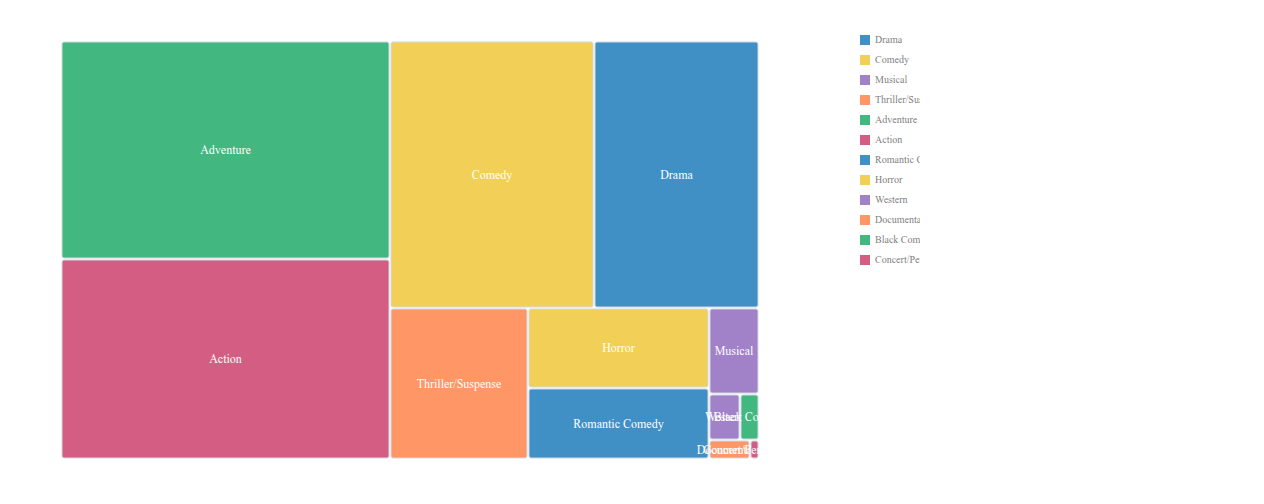
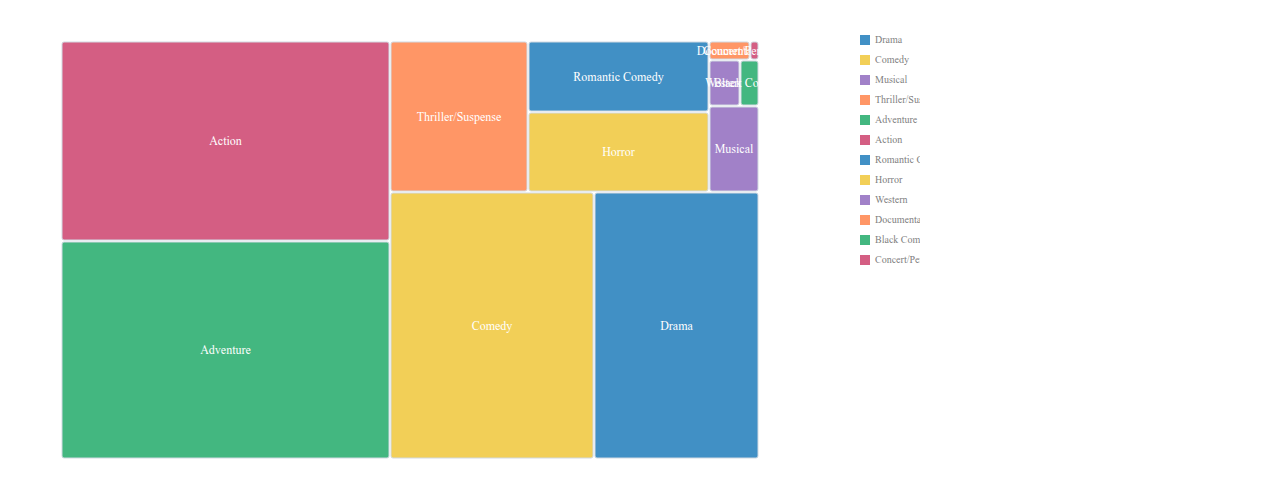
Accept 3 visual diff(s)

diff --git a/dom/low-level-syntax/treemap--default.html b/dom/low-level-syntax/treemap--default.html
@@ -1,15 +1,15 @@
-<svg height="500" width="900" xmlns="http://www.w3.org/2000/svg"><g transform="scale(1, -1) translate(40, -460)"><g transform="translate(0, 0)"><rect fill="#4190c5" height="265" opacity="1" rx="2" ry="2" stroke="#D1D9E2" stroke-width="1" transform="scale(1, -1)" width="163" x="535" y="-418"></rect><text dominant-baseline="central" fill="white" font-size="12" text-anchor="middle" transform="scale(1, -1)" x="616.5" y="-285.5">Drama
-</text><rect fill="#f2cf57" height="265" opacity="1" rx="2" ry="2" stroke="#D1D9E2" stroke-width="1" transform="scale(1, -1)" width="202" x="331" y="-418"></rect><text dominant-baseline="central" fill="white" font-size="12" text-anchor="middle" transform="scale(1, -1)" x="432" y="-285.5">Comedy
-</text><rect fill="#a181c8" height="84" opacity="1" rx="2" ry="2" stroke="#D1D9E2" stroke-width="1" transform="scale(1, -1)" width="48" x="650" y="-151"></rect><text dominant-baseline="central" fill="white" font-size="12" text-anchor="middle" transform="scale(1, -1)" x="674" y="-109">Musical
-</text><rect fill="#ff9666" height="149" opacity="1" rx="2" ry="2" stroke="#D1D9E2" stroke-width="1" transform="scale(1, -1)" width="136" x="331" y="-151"></rect><text dominant-baseline="central" fill="white" font-size="12" text-anchor="middle" transform="scale(1, -1)" x="399" y="-76.5">Thriller/Suspense
-</text><rect fill="#43b780" height="216" opacity="1" rx="2" ry="2" stroke="#D1D9E2" stroke-width="1" transform="scale(1, -1)" width="327" x="2" y="-418"></rect><text dominant-baseline="central" fill="white" font-size="12" text-anchor="middle" transform="scale(1, -1)" x="165.5" y="-310">Adventure
-</text><rect fill="#d45e83" height="198" opacity="1" rx="2" ry="2" stroke="#D1D9E2" stroke-width="1" transform="scale(1, -1)" width="327" x="2" y="-200"></rect><text dominant-baseline="central" fill="white" font-size="12" text-anchor="middle" transform="scale(1, -1)" x="165.5" y="-101">Action
-</text><rect fill="#4190c5" height="69" opacity="1" rx="2" ry="2" stroke="#D1D9E2" stroke-width="1" transform="scale(1, -1)" width="179" x="469" y="-71"></rect><text dominant-baseline="central" fill="white" font-size="12" text-anchor="middle" transform="scale(1, -1)" x="558.5" y="-36.5">Romantic Comedy
-</text><rect fill="#f2cf57" height="78" opacity="1" rx="2" ry="2" stroke="#D1D9E2" stroke-width="1" transform="scale(1, -1)" width="179" x="469" y="-151"></rect><text dominant-baseline="central" fill="white" font-size="12" text-anchor="middle" transform="scale(1, -1)" x="558.5" y="-112">Horror
-</text><rect fill="#a181c8" height="44" opacity="1" rx="2" ry="2" stroke="#D1D9E2" stroke-width="1" transform="scale(1, -1)" width="29" x="650" y="-65"></rect><text dominant-baseline="central" fill="white" font-size="12" text-anchor="middle" transform="scale(1, -1)" x="664.5" y="-43">Western
-</text><rect fill="#ff9666" height="17" opacity="1" rx="2" ry="2" stroke="#D1D9E2" stroke-width="1" transform="scale(1, -1)" width="39" x="650" y="-19"></rect><text dominant-baseline="central" fill="white" font-size="12" text-anchor="middle" transform="scale(1, -1)" x="669.5" y="-10.5">Documentary
-</text><rect fill="#43b780" height="44" opacity="1" rx="2" ry="2" stroke="#D1D9E2" stroke-width="1" transform="scale(1, -1)" width="17" x="681" y="-65"></rect><text dominant-baseline="central" fill="white" font-size="12" text-anchor="middle" transform="scale(1, -1)" x="689.5" y="-43">Black Comedy
-</text><rect fill="#d45e83" height="17" opacity="1" rx="2" ry="2" stroke="#D1D9E2" stroke-width="1" transform="scale(1, -1)" width="7" x="691" y="-19"></rect><text dominant-baseline="central" fill="white" font-size="12" text-anchor="middle" transform="scale(1, -1)" x="694.5" y="-10.5">Concert/Performance
+<svg height="500" width="900" xmlns="http://www.w3.org/2000/svg"><g transform="scale(1, -1) translate(40, -460)"><g transform="translate(0, 0)"><rect fill="#4190c5" height="265" opacity="1" rx="2" ry="2" stroke="#D1D9E2" stroke-width="1" transform="scale(1, -1)" width="163" x="535" y="-267"></rect><text dominant-baseline="central" fill="white" font-size="12" text-anchor="middle" transform="scale(1, -1)" x="616.5" y="-134.5">Drama
+</text><rect fill="#f2cf57" height="265" opacity="1" rx="2" ry="2" stroke="#D1D9E2" stroke-width="1" transform="scale(1, -1)" width="202" x="331" y="-267"></rect><text dominant-baseline="central" fill="white" font-size="12" text-anchor="middle" transform="scale(1, -1)" x="432" y="-134.5">Comedy
+</text><rect fill="#a181c8" height="84" opacity="1" rx="2" ry="2" stroke="#D1D9E2" stroke-width="1" transform="scale(1, -1)" width="48" x="650" y="-353"></rect><text dominant-baseline="central" fill="white" font-size="12" text-anchor="middle" transform="scale(1, -1)" x="674" y="-311">Musical
+</text><rect fill="#ff9666" height="149" opacity="1" rx="2" ry="2" stroke="#D1D9E2" stroke-width="1" transform="scale(1, -1)" width="136" x="331" y="-418"></rect><text dominant-baseline="central" fill="white" font-size="12" text-anchor="middle" transform="scale(1, -1)" x="399" y="-343.5">Thriller/Suspense
+</text><rect fill="#43b780" height="216" opacity="1" rx="2" ry="2" stroke="#D1D9E2" stroke-width="1" transform="scale(1, -1)" width="327" x="2" y="-218"></rect><text dominant-baseline="central" fill="white" font-size="12" text-anchor="middle" transform="scale(1, -1)" x="165.5" y="-110">Adventure
+</text><rect fill="#d45e83" height="198" opacity="1" rx="2" ry="2" stroke="#D1D9E2" stroke-width="1" transform="scale(1, -1)" width="327" x="2" y="-418"></rect><text dominant-baseline="central" fill="white" font-size="12" text-anchor="middle" transform="scale(1, -1)" x="165.5" y="-319">Action
+</text><rect fill="#4190c5" height="69" opacity="1" rx="2" ry="2" stroke="#D1D9E2" stroke-width="1" transform="scale(1, -1)" width="179" x="469" y="-418"></rect><text dominant-baseline="central" fill="white" font-size="12" text-anchor="middle" transform="scale(1, -1)" x="558.5" y="-383.5">Romantic Comedy
+</text><rect fill="#f2cf57" height="78" opacity="1" rx="2" ry="2" stroke="#D1D9E2" stroke-width="1" transform="scale(1, -1)" width="179" x="469" y="-347"></rect><text dominant-baseline="central" fill="white" font-size="12" text-anchor="middle" transform="scale(1, -1)" x="558.5" y="-308">Horror
+</text><rect fill="#a181c8" height="44" opacity="1" rx="2" ry="2" stroke="#D1D9E2" stroke-width="1" transform="scale(1, -1)" width="29" x="650" y="-399"></rect><text dominant-baseline="central" fill="white" font-size="12" text-anchor="middle" transform="scale(1, -1)" x="664.5" y="-377">Western
+</text><rect fill="#ff9666" height="17" opacity="1" rx="2" ry="2" stroke="#D1D9E2" stroke-width="1" transform="scale(1, -1)" width="39" x="650" y="-418"></rect><text dominant-baseline="central" fill="white" font-size="12" text-anchor="middle" transform="scale(1, -1)" x="669.5" y="-409.5">Documentary
+</text><rect fill="#43b780" height="44" opacity="1" rx="2" ry="2" stroke="#D1D9E2" stroke-width="1" transform="scale(1, -1)" width="17" x="681" y="-399"></rect><text dominant-baseline="central" fill="white" font-size="12" text-anchor="middle" transform="scale(1, -1)" x="689.5" y="-377">Black Comedy
+</text><rect fill="#d45e83" height="17" opacity="1" rx="2" ry="2" stroke="#D1D9E2" stroke-width="1" transform="scale(1, -1)" width="7" x="691" y="-418"></rect><text dominant-baseline="central" fill="white" font-size="12" text-anchor="middle" transform="scale(1, -1)" x="694.5" y="-409.5">Concert/Performance
 </text></g><g transform="translate(820, 420)"><rect fill="#4190c5" height="10" width="10" x="-20" y="-5"></rect><text dominant-baseline="middle" fill="gray" font-size="10" text-anchor="start" transform="scale(1, -1)" x="-5" y="0">Drama
 </text></g><g transform="translate(820, 400)"><rect fill="#f2cf57" height="10" width="10" x="-20" y="-5"></rect><text dominant-baseline="middle" fill="gray" font-size="10" text-anchor="start" transform="scale(1, -1)" x="-5" y="0">Comedy
 </text></g><g transform="translate(820, 380)"><rect fill="#a181c8" height="10" width="10" x="-20" y="-5"></rect><text dominant-baseline="middle" fill="gray" font-size="10" text-anchor="start" transform="scale(1, -1)" x="-5" y="0">Musical

diff --git a/dom/low-level-syntax/axes--continuous-yaxis.html b/dom/low-level-syntax/axes--continuous-yaxis.html
@@ -1,0 +1,9 @@
+<svg height="480" width="480" xmlns="http://www.w3.org/2000/svg"><g transform="scale(1, -1) translate(40, -440)"><g transform="translate(0, 0) scale(1, 1)"><g transform="translate(80.6724, 0)"><rect fill="#457b9d" height="100" opacity="1" rx="0" ry="0" stroke="#457b9d" stroke-width="0" transform="scale(1, -1)" width="40" x="0" y="-100"></rect><rect fill="#457b9d" height="280" opacity="1" rx="0" ry="0" stroke="#457b9d" stroke-width="0" transform="scale(1, -1)" width="40" x="48" y="-280"></rect><rect fill="#457b9d" height="150" opacity="1" rx="0" ry="0" stroke="#457b9d" stroke-width="0" transform="scale(1, -1)" width="40" x="96" y="-150"></rect></g><rect fill="#999" height="300" opacity="1" rx="0" ry="0" stroke="#999" stroke-width="0" transform="scale(1, -1)" width="1" x="73.6724" y="-300"></rect><g transform="translate(58.6738, -200)"><text dominant-baseline="auto" fill="#666" font-family="system-ui, sans-serif" font-size="11" stroke-width="0" text-anchor="start" transform="scale(1, -1)" x="0" y="-196.5">0
+</text><rect fill="#999" height="1" opacity="1" rx="0" ry="0" stroke="#999" stroke-width="0" transform="scale(1, -1)" width="5" x="9.9985" y="-200.5"></rect></g><g transform="translate(51.6753, -150)"><text dominant-baseline="auto" fill="#666" font-family="system-ui, sans-serif" font-size="11" stroke-width="0" text-anchor="start" transform="scale(1, -1)" x="0" y="-196.5">50
+</text><rect fill="#999" height="1" opacity="1" rx="0" ry="0" stroke="#999" stroke-width="0" transform="scale(1, -1)" width="5" x="16.9971" y="-200.5"></rect></g><g transform="translate(44.6768, -100)"><text dominant-baseline="auto" fill="#666" font-family="system-ui, sans-serif" font-size="11" stroke-width="0" text-anchor="start" transform="scale(1, -1)" x="0" y="-196.5">100
+</text><rect fill="#999" height="1" opacity="1" rx="0" ry="0" stroke="#999" stroke-width="0" transform="scale(1, -1)" width="5" x="23.9956" y="-200.5"></rect></g><g transform="translate(44.6768, -50)"><text dominant-baseline="auto" fill="#666" font-family="system-ui, sans-serif" font-size="11" stroke-width="0" text-anchor="start" transform="scale(1, -1)" x="0" y="-196.5">150
+</text><rect fill="#999" height="1" opacity="1" rx="0" ry="0" stroke="#999" stroke-width="0" transform="scale(1, -1)" width="5" x="23.9956" y="-200.5"></rect></g><g transform="translate(44.6768, 0)"><text dominant-baseline="auto" fill="#666" font-family="system-ui, sans-serif" font-size="11" stroke-width="0" text-anchor="start" transform="scale(1, -1)" x="0" y="-196.5">200
+</text><rect fill="#999" height="1" opacity="1" rx="0" ry="0" stroke="#999" stroke-width="0" transform="scale(1, -1)" width="5" x="23.9956" y="-200.5"></rect></g><g transform="translate(44.6768, 50)"><text dominant-baseline="auto" fill="#666" font-family="system-ui, sans-serif" font-size="11" stroke-width="0" text-anchor="start" transform="scale(1, -1)" x="0" y="-196.5">250
+</text><rect fill="#999" height="1" opacity="1" rx="0" ry="0" stroke="#999" stroke-width="0" transform="scale(1, -1)" width="5" x="23.9956" y="-200.5"></rect></g><g transform="translate(44.6768, 100)"><text dominant-baseline="auto" fill="#666" font-family="system-ui, sans-serif" font-size="11" stroke-width="0" text-anchor="start" transform="scale(1, -1)" x="0" y="-196.5">300
+</text><rect fill="#999" height="1" opacity="1" rx="0" ry="0" stroke="#999" stroke-width="0" transform="scale(1, -1)" width="5" x="23.9956" y="-200.5"></rect></g><text dominant-baseline="auto" fill="#333" font-family="system-ui, sans-serif" font-size="13" stroke-width="0" text-anchor="start" transform="scale(1, -1)" x="0" y="-145.5">count
+</text></g></g></svg>

diff --git a/dom/low-level-syntax/axes--ordinal-xaxis.html b/dom/low-level-syntax/axes--ordinal-xaxis.html
@@ -1,0 +1,5 @@
+<svg height="480" width="480" xmlns="http://www.w3.org/2000/svg"><g transform="scale(1, -1) translate(40, -440)"><g transform="translate(21.7881, 60) scale(1, 1)"><g transform="translate(0, 0)"><rect fill="#457b9d" height="100" opacity="1" rx="0" ry="0" stroke="#457b9d" stroke-width="0" transform="scale(1, -1)" width="40" x="0" y="-100"></rect><rect fill="#457b9d" height="280" opacity="1" rx="0" ry="0" stroke="#457b9d" stroke-width="0" transform="scale(1, -1)" width="40" x="48" y="-280"></rect><rect fill="#457b9d" height="150" opacity="1" rx="0" ry="0" stroke="#457b9d" stroke-width="0" transform="scale(1, -1)" width="40" x="96" y="-150"></rect></g><g transform="translate(0, 0) scale(1, 1)"><g transform="translate(0, 0)"><text dominant-baseline="auto" fill="#666" font-family="system-ui, sans-serif" font-size="12" stroke-width="0" text-anchor="start" transform="scale(1, -1)" x="-1.7881" y="19">salmon
+</text></g><g transform="translate(0, 0)"><text dominant-baseline="auto" fill="#666" font-family="system-ui, sans-serif" font-size="12" stroke-width="0" text-anchor="start" transform="scale(1, -1)" x="54.2627" y="19">bass
+</text></g><g transform="translate(0, 0)"><text dominant-baseline="auto" fill="#666" font-family="system-ui, sans-serif" font-size="12" stroke-width="0" text-anchor="start" transform="scale(1, -1)" x="101.4863" y="19">trout
+</text></g></g><g transform="translate(0, 0)"><text dominant-baseline="auto" fill="#333" font-family="system-ui, sans-serif" font-size="14" stroke-width="0" text-anchor="start" transform="scale(1, -1)" x="41.856" y="37">species
+</text></g></g></g></svg>
